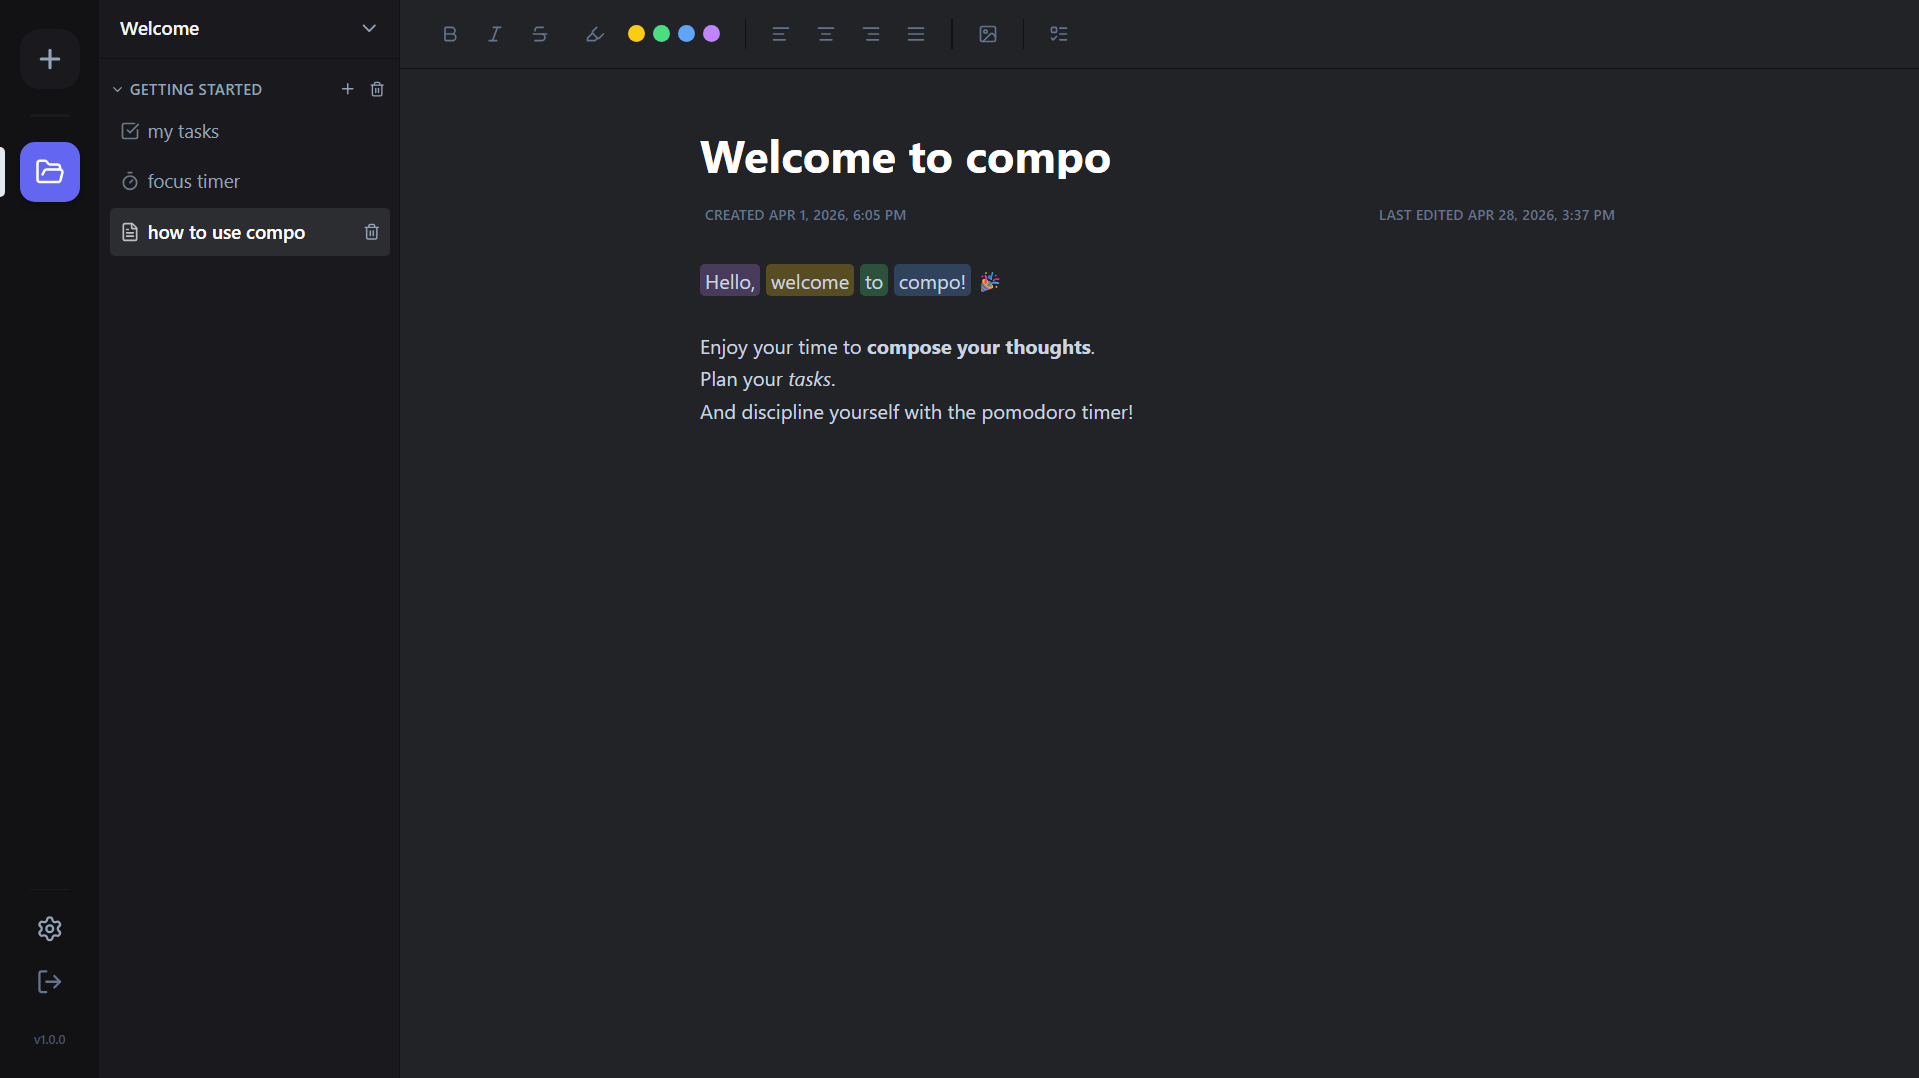
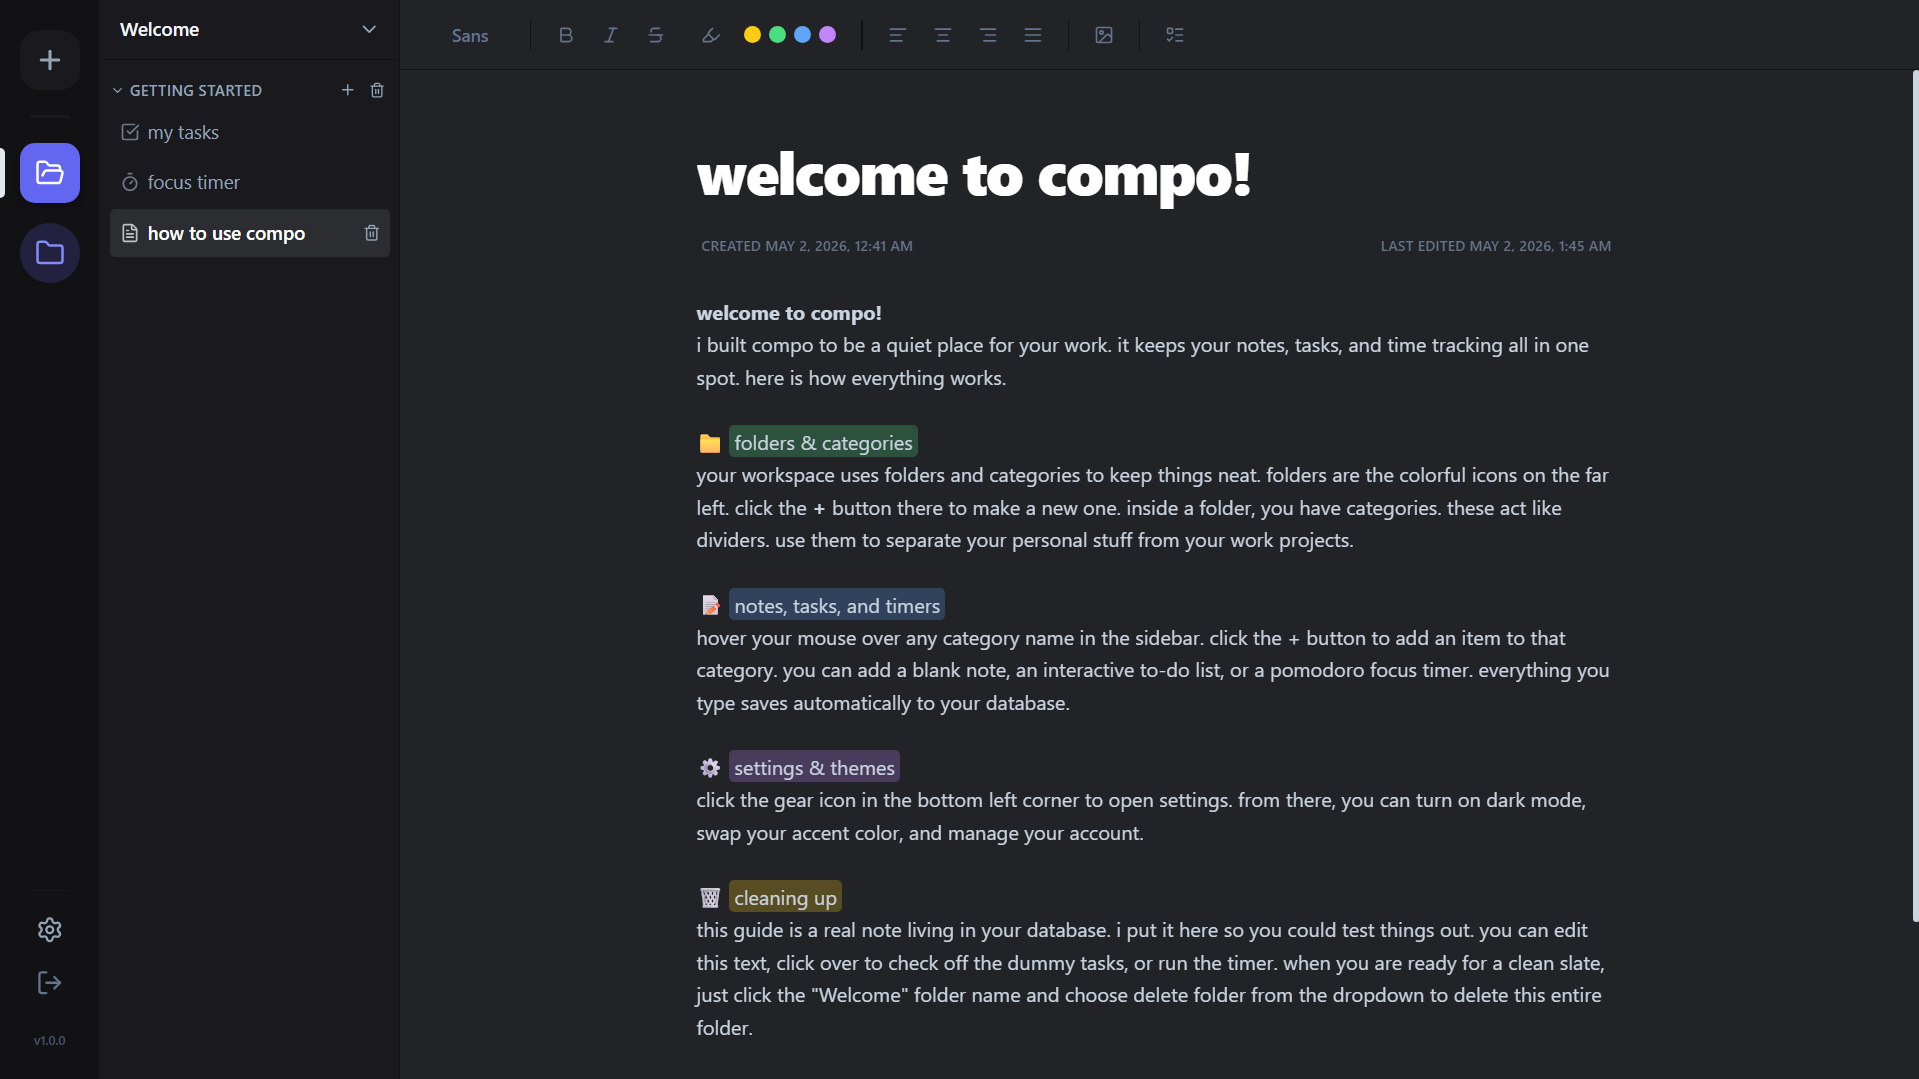
Update: Add changelog for version 1.1.0

diff --git a/README.md b/README.md
@@ -17,6 +17,16 @@
   </p>
 </div>
 
+### Changelog
+
+V1.1.0 - 2026-05-02
+
+| Type | Description |
+| :--- | :--- |
+| **Added** | custom font selection dropdown menu integrated directly into the editor toolbar. |
+| **Added** | table support for notes with options to add or delete rows and columns. |
+| **Fixed** | resolved a sub-pixel rendering bug causing the note title to jitter while scrolling. |
+
 ### Features
 
 * **smart organization:** group your notes and to-dos in custom color-coded folders.
@@ -28,7 +38,6 @@
 
 * react
 * typescript
-* tailwind css
 * supabase
 * vite
 
